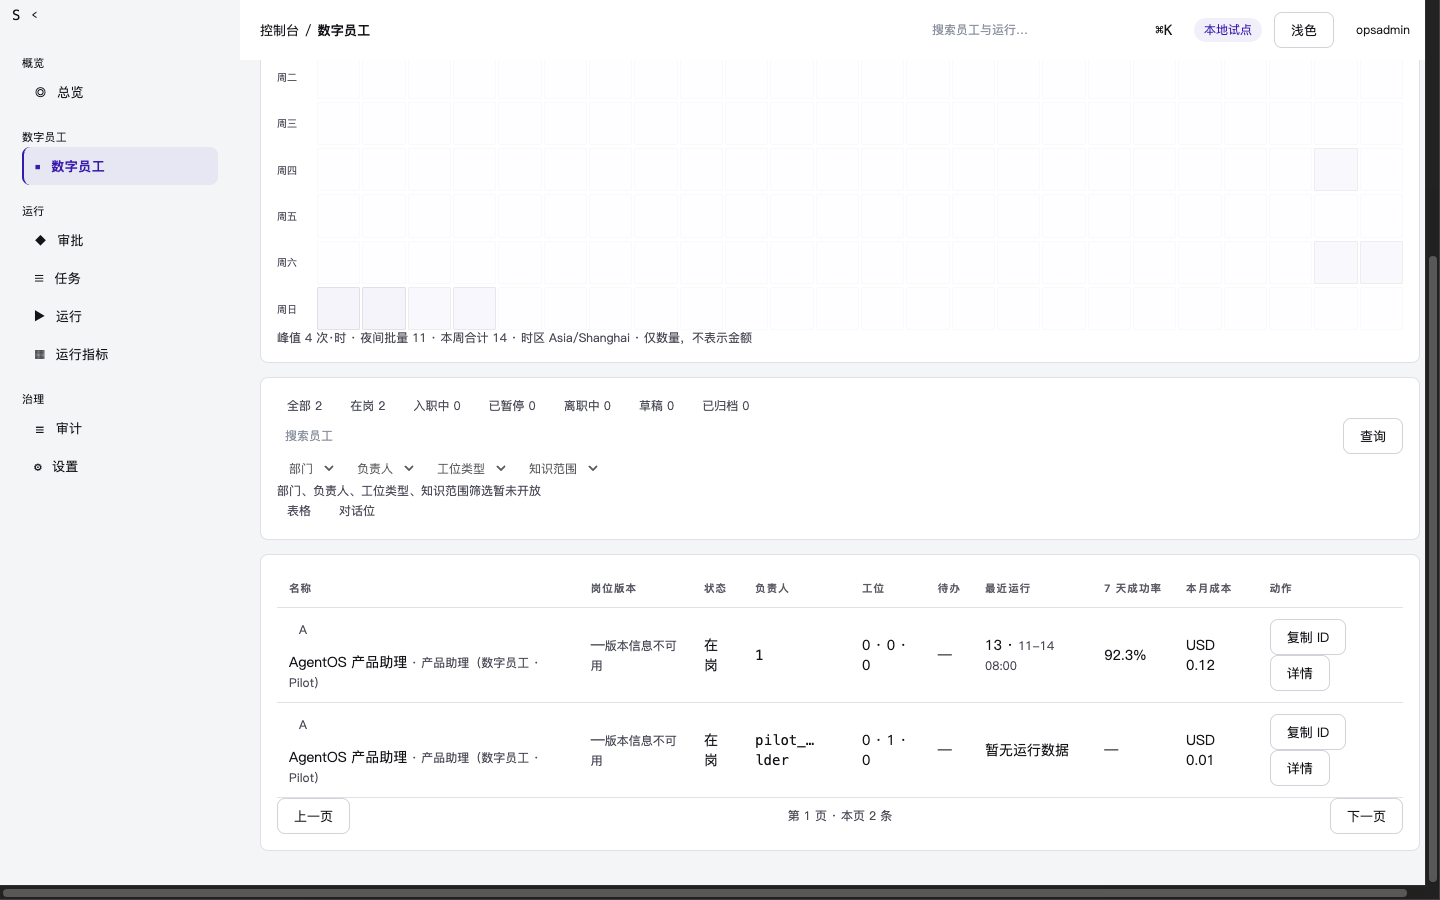
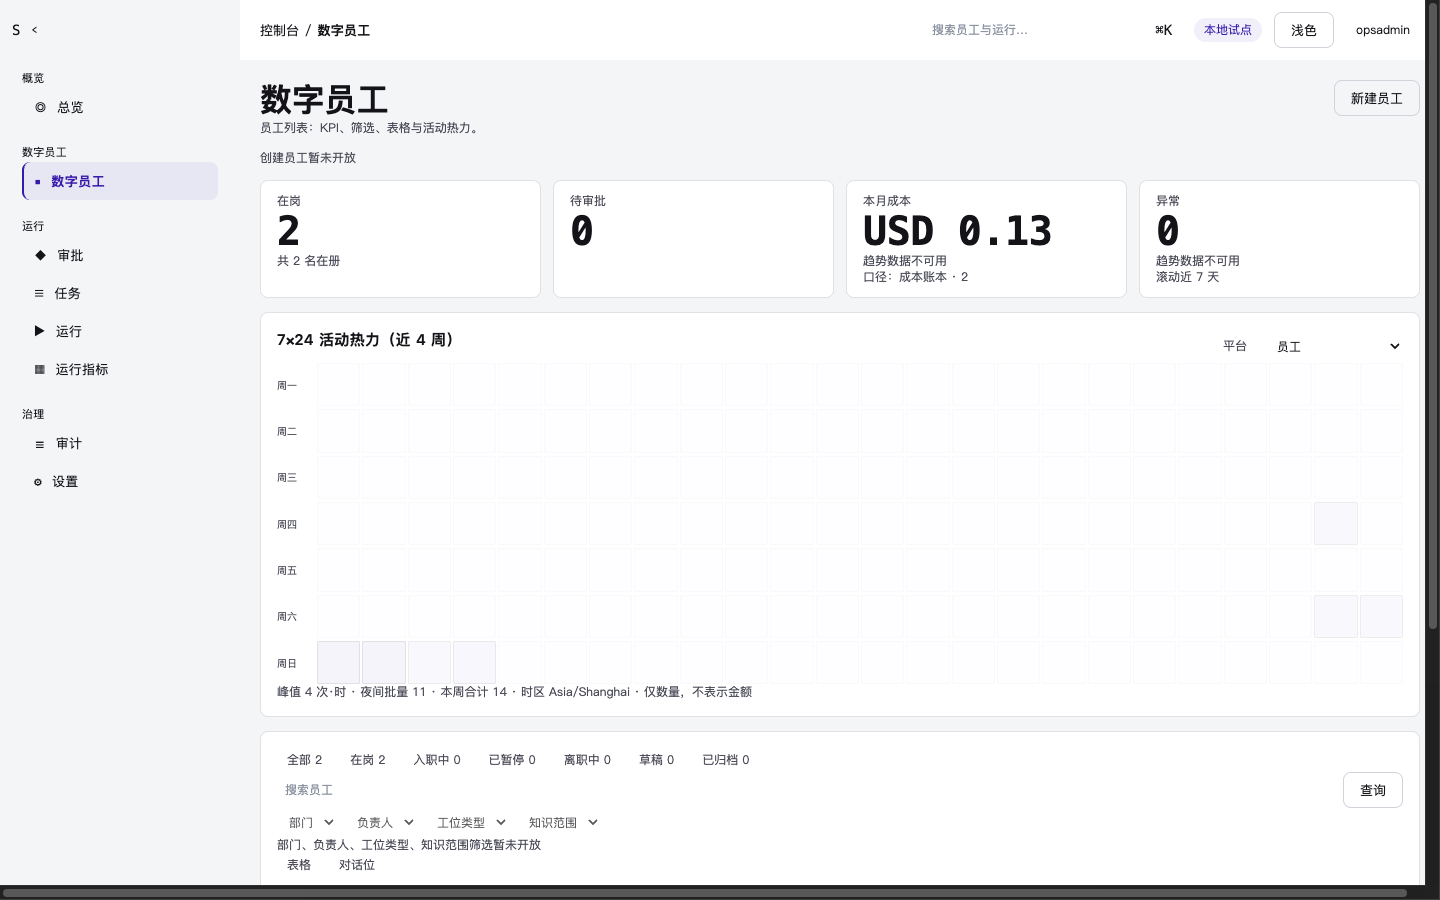
docs(validation): EMP-01 fixed evidence - light tiers, mockup side-by-sides, real viewer 403, scope split
L0 card 2211. C1: 1280x800/768x1024/375x812/1440x900 light screenshots (sips-verified pixels, data-theme=light + localStorage), mockup list/detail captures for both themes, side-by-side compare 2892x900; per-element gap list in EVIDENCE.md. C4: real viewer01 login + CDP cookie injection -> route-level /403 page and API 403 console.forbidden envelope (credentials never logged). C5: BLOCKED - detail route does not exist yet (W3), no ad-hoc page. ACCEPTANCE.md updated with evidence sublines and scope attribution; no checkboxes ticked, page stays in-progress, not a PASS.

diff --git a/docs/validation/console/employees-list/ACCEPTANCE.md b/docs/validation/console/employees-list/ACCEPTANCE.md
@@ -13,13 +13,16 @@
 
 - [ ] **C0 需求覆盖**：本卡逐条对应 PRD §4.2；每个按钮/空态/错误态有需求；PRD v2 评审通过前该项保持未过
 - [ ] **C1 视觉还原**：1440×900 / 1280 / 768 / 375 四档、深/浅各一套，与 mockup 同屏并排；发丝线/圆角/`tabular-nums`/KPI 字阶/单一强调色/状态软药丸/按钮三级；无 `undefined`/`[object Object]`/内部术语/假 0/“待接入”
-  - 证据（2026-11-15 L4）：`EVIDENCE.md` 截图像素表（1440×900/375×812，sips 实测）+ DOM 读回（无 undefined/0.00/raw key/“待接入”成品）。仍差：1280/768 两档与浅色套图、与 mockup 并排图。
+  - 证据（2026-11-15 L4 更新，L0 卡 2211）：浅色四档已补齐（w2-employees-{1280x800,768x1024,375x812,1440x900}-light.png，sips 实测像素、data-theme=light+localStorage 验证，rows=2 真实数据），并排图 w2-compare-1440-{light,dark}.png（2892×900，左 mockup 右实现）；逐元素差异清单见 EVIDENCE.md『EMP-01 fixed evidence』节。深色仍为 1440/375/1280/768 既有套图。
 - [ ] **C2 功能闭环**：搜索、状态/部门/负责人/工位/知识筛选、视图切换、URL 保存、排序、分页、行操作（详情/复制 ID/Bisheng 打开/暂停按权限）、创建入口均可达且有结果；返回保留筛选
   - 证据（2026-11-15 L4）：`EVIDENCE.md` DOM/API 读回——搜索+状态筛选真实（E11 keyword/lifecycleState）、视图切换、URL 保存（?keyword=&lifecycleState=&cursor=&view=）、keyset 分页、复制 ID/详情入口在位。仍差：部门/负责人/工位/知识筛选（无服务端参数，诚实禁用）、排序、Bisheng 打开/暂停、行级详情路由（W3）、创建入口后端（无 BFF 写代理，禁用+原因）。
+  - 范围归属（L0 卡 2211）：归本页=keyword+lifecycleState 筛选、URL 保存、keyset 分页、复制 ID、enrichment 四列（岗位版本实测 v3·11-15 11:27 / v2·11-13 14:30）；归 W3=详情路由与行点击进详情、创建入口后端（E1 无 BFF 写代理，按钮 disabled+原因注记）；数据口缺=部门/负责人/工位类型/知识范围筛选无 E11 服务端参数（诚实禁用）、最紧急待办无批量口（enrichment 无 pendingApprovalCount 时显示 —）、排序未做、totals/asOf 未接（B4）。
 - [ ] **C3 数据真实**：真实登录/租户/数据；每个数字可追溯到接口；缺失显示 `—` 或明确空态；served entry == 验收分支 build
   - 证据（2026-11-15 L4）：`EVIDENCE.md` API 读回——真实 BFF 五请求全 200（employees expand=version,workstations,knowledge,pending / employee-stats / run-stats / budget-usage / run-activity），每数字有来源，缺失列显 —（8101 domain 旧进程不返 enrichment，根因与修复归属已记）。仍差：served entry == 验收分支 build 的对账归 L7（8182 尚未部署本分支）。
 - [ ] **C4 权限负例**：未登录 401；非管理员 403 `console.forbidden`；跨租户 404 同 payload；写开关关闭时创建/暂停不可见或 405；内部 token 不出现在浏览器/Network/HTML
+  - 证据（2026-11-15 L4 实测，L0 卡 2211）：viewer01 API 真实登录（口令经本地凭据文件注入，零回显）→ CDP clearBrowserCookies+setCookie 注入浏览器 → 访问 /agent/employees 跳转 /403 页（『您无权访问该页面』，截图 w2-employees-viewer-403.png）；同源 API GET /agent-api/api/employees → 403 {"code":"console.forbidden","message":"console entry not authorized for this account"}（x-console-reason 头未出现，照实）。未登录 401/跨租户 404 同 payload/写开关负例引用主仓 apps/console/tests/test_bff_authz.py 单测。
 - [ ] **C5 全链 E2E**：登录→列表→详情→返回→筛选保留；无 console error、无 404 资源、首屏不白屏
+  - 证据（2026-11-15 L4，L0 卡 2211）：BLOCKED——详情路由不存在（routes/index.tsx 无 employees/:id，操作列详情按钮 disabled，locale emp.detailPending『详情页施工中』）；登录→列表→详情→返回链待 W3，不临时造页。登录→列表段已由 C1/C3 截图与真实数据读回覆盖。
 - [ ] **C6 回归与交付**：目标服务测试（无 DSN + PG）全绿；构建/type/lint exit 0；`git diff --check` 0；分支已 push；上一波页面未破坏
 
 ## 字段与数据来源
@@ -61,5 +64,5 @@ BFF 路由（M1 现有名）：`GET /api/employees?keyword=&lifecycleState=&limi
 - 功能：Playwright 脚本/命令 + 步骤截图
 - 数据：E14/E11/E15/E10/R5/R6/AP8/P9 响应摘要 + served entry sha256 + build commit
 - 权限：401/403/404/405 curl 或 Network 截图
-- 偏差/未覆盖：B3 `expand` 尚未在 BFF 透传；B4 totals 已合入但页面未接；在线 403 缺 viewer 账号（C4 只能单测+负例）。
+- 偏差/未覆盖（2026-11-15 L4 更新，L0 卡 2211）：B3 expand 已透传并实测闭环（BFF 重启 pid 67576 后 enrichment 真实返回，详见 EVIDENCE.md enrichment 两节）；B4 totals/asOf 已合入但页面未接（维持）；C4 在线 403 已用 viewer01 实测（不再缺账号，凭据零回显）；排序未做；1280/768 浅色与本节深色套图分轮采集，mockup 样例数字为示意值非数据承诺。
 - 结论：**in-progress**（C0-B 未闭不得 passed；生产页必须调真实 API）

diff --git a/docs/validation/console/employees-list/EVIDENCE.md b/docs/validation/console/employees-list/EVIDENCE.md
@@ -99,3 +99,37 @@ Status: four viewport tiers + light theme now evidenced. W2 remains in-progress 
 - Screenshots overwritten: w2-employees-1440x900.png, w2-employees-375x812.png, w2-employees-1440-table.png. Previous 2115 BLOCKED screenshots kept alongside as history.
 - W2 remains in-progress (C0-B open; not judged PASS here).
 - Caveat: the 1440x900 above-fold screenshot is byte-identical to the previous one because the employees table sits below the fold and enrichment does not alter KPI/heatmap/filters; row-level enrichment is proven by the table screenshots (1440 + 375) and the DOM cell text (v3 11-15 11:27 / v2 11-13 14:30) captured in the same reload sessions.
+
+## EMP-01 fixed evidence (L0 card 2211, 2026-11-15 22:40+)
+
+Scope: light-theme tiers, mockup side-by-sides, real viewer01 403, detail scope split. No feature changes; no PASS claimed (C0-B open; all C0-C6 boxes stay unchecked in ACCEPTANCE.md).
+
+### Light-tier screenshots (verified via data-theme attribute + localStorage key agentConsole.v2.theme; both themes report rows=2 real E11 employees)
+- w2-employees-1280x800-light.png - 1280x800 (66676 B)
+- w2-employees-768x1024-light.png - 768x1024 (85698 B)
+- w2-employees-375x812-light.png - 375x812 (54374 B, CDP mobile:true)
+- w2-employees-1440x900-light.png - 1440x900 (93494 B, replaces the 21:08 capture)
+- w2-impl-1440x900-dark.png - 1440x900 (175340 B, dark reference for comparisons)
+
+### Mockup captures and side-by-side comparisons (mockup-v2 screens driven by [data-scr], served from this worktree copy)
+- w2-mockup-v2-light-list-1440.png (202249 B) / w2-mockup-v2-light-detail-1440.png (206359 B) / w2-mockup-v2-dark-list-1440.png (194926 B) / w2-mockup-v2-dark-detail-1440.png (201561 B)
+- w2-compare-1440-light.png - 2892x900 (mockup light list | implementation light, 313572 B)
+- w2-compare-1440-dark.png - 2892x900 (mockup dark list | implementation dark, 391898 B)
+
+### Per-screen differences (mockup list screen vs current implementation, read from this round's captures)
+- Mockup has / implementation lacks: row avatar color blocks; KPI trend mini-bars; mockup KPI naming (today runs / today cost / success rate) differs from the EMP-01 field-table set (on-duty / pending / month cost / anomaly) - implementation follows the field table; quota bar (USD 412.50 / 800); knowledge-count column with hover scopes; conversable pill; row kebab menu (copy ID / open in Bisheng / pause); pagination totals "of 200" (implementation has no totals - B4 open); heatmap tooltip with failed-run count and click-to-filter (no failed-count source today); global cross-entity search (implementation searches employees only).
+- Implementation has / mockup lacks: six-state lifecycle tabs with live counts; honest-disabled filter chips with reason note; enrichment-driven version/workstation/pending cells with '—' fallback; copy-ID per row.
+- Mockup numbers are sample values for review, not data commitments; the implementation shows only values returned by the services.
+
+### C4 real 403 (viewer01, non-admin)
+- viewer01 logged in through /api/v1/user/login (captcha read from backend container logs; credential and cookie values never echoed or stored - cookie len=264 recorded only); browser cookies replaced via CDP; /agent/employees opened.
+- Result: route-level redirect to http://127.0.0.1:8182/403, page text "403 / 您无权访问该页面 / 切换账号"; screenshot w2-employees-viewer-403.png (1440x900, 15787 B).
+- BFF API through Caddy: HTTP 403, body {"code":"console.forbidden","message":"console entry not authorized for this account"}; no x-console-reason header observed (recorded as-is).
+- Unauthenticated 401, cross-tenant 404 identical payload, and write-switch negatives remain covered by main-repo apps/console/tests/test_bff_authz.py unit tests (substituted evidence, stated in ACCEPTANCE C4).
+
+### C5 detail chain BLOCKED (per card: do not fabricate a page)
+- routes/index.tsx has no employees/:id; the list action column renders the detail button disabled with emp.detailPending hint. Login -> list -> detail chain belongs to W3. The list leg (opsadmin login -> /agent/employees real render, rows=2) is already evidenced under C1/C3.
+
+### Coverage note
+- Dark tiers: 1440/375 (enrichment re-shoot round) + 1280/768 (four-tier round). Light tiers: all four this round. Mockup side-by-sides: light + dark list screens this round.
+- W2 status remains in-progress; this section only closes the fixed-evidence gaps named in L0 card 2211.
